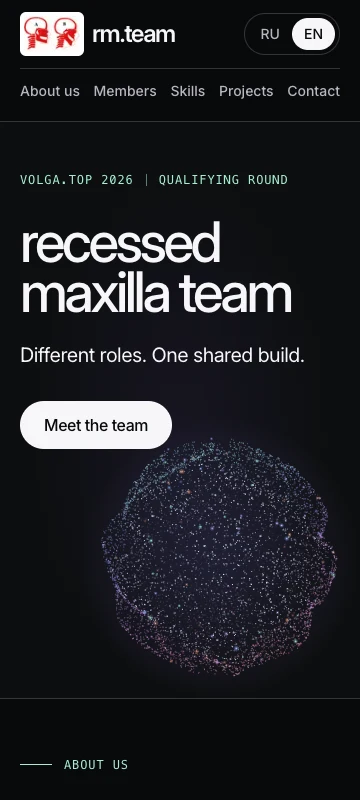
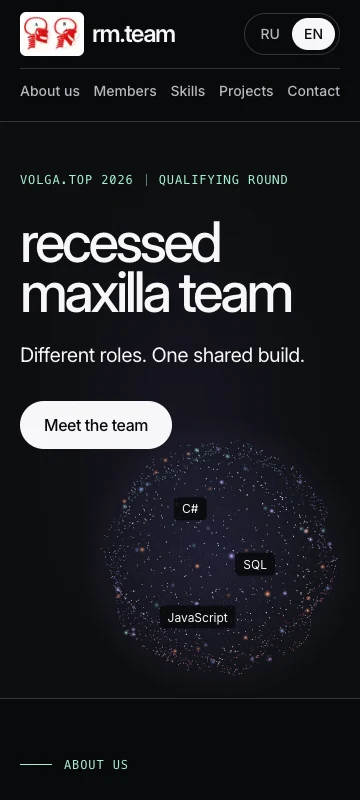
perf(frontend): batch sphere particles and cycle through team skills

Changed region(s): [[0.275, 0.5312, 0.9472, 0.8438]]

diff --git a/frontend/components/sphere-scene.ts b/frontend/components/sphere-scene.ts
@@ -18,7 +18,11 @@ function makeGlow(color: string) {
   return sprite;
 }
 
-export function createSphereScene(context: CanvasRenderingContext2D, labels: HTMLElement[]) {
+export function createSphereScene(
+  context: CanvasRenderingContext2D,
+  slots: HTMLElement[],
+  labels: readonly string[],
+) {
   // A repeatable surface keeps the opening frame stable across locale changes.
   let seed = 4627;
   function random() {
@@ -27,7 +31,14 @@ export function createSphereScene(context: CanvasRenderingContext2D, labels: HTM
   }
 
   const glows = starColors.map(makeGlow);
-  const particles = Array.from({ length: 6200 }, () => {
+  // Each path shares one paint. Depth bands retain the bright front and the coloured rim.
+  const palette = Array.from({ length: 36 }, (_, index) => {
+    const band = Math.floor(index / 12);
+    const hue = 175 + (index % 12) * 16;
+    return `hsla(${hue}, 78%, ${64 + band * 9}%, ${0.30 + band * 0.18})`;
+  });
+  palette.push("rgba(225,230,255,0.80)");
+  const particles = Array.from({ length: 4200 }, () => {
     const y = random() * 2 - 1;
     const longitude = random() * tau;
     const ring = Math.sqrt(1 - y * y);
@@ -38,18 +49,19 @@ export function createSphereScene(context: CanvasRenderingContext2D, labels: HTM
     const hue = 261 + y * 70 + 24 * x + (random() - 0.5) * 34;
     return {
       x: x * shell, y: y * shell, z: z * shell, phase,
-      color: `hsl(${hue} 78% ${65 + random() * 28}%)`,
+      color: Math.max(0, Math.min(11, Math.round((hue - 175) / 16))),
       size: 0.0022 + random() ** 2 * 0.0043,
       glow: random() < 0.022 ? glows[Math.floor(random() * glows.length)] : null,
     };
   });
 
-  const anchors = labels.map((element, index) => {
-    const y = labels.length === 1 ? 0 : 1.3 * ((index + 0.5) / labels.length - 0.5);
-    const ring = Math.sqrt(1 - y * y);
-    const angle = index * 2.4 + 0.3;
-    return { element, x: ring * Math.sin(angle), y, z: ring * Math.cos(angle) };
-  });
+  const anchors = slots.map((element, slot) => ({
+    element,
+    names: labels.filter((_, index) => index % slots.length === slot),
+    latitude: (slot - (slots.length - 1) / 2) * 0.56,
+    longitude: [-0.44, 0.42, -0.32][slot],
+    index: -1,
+  }));
 
   return function draw(size: number, time: number, pose: SpherePose) {
     const radius = size * 0.40;
@@ -66,7 +78,11 @@ export function createSphereScene(context: CanvasRenderingContext2D, labels: HTM
     const st = Math.sin(tilt);
     context.clearRect(0, 0, size, size);
 
-    for (const p of particles) {
+    const paths = palette.map(() => new Path2D());
+    // The points are uniformly distributed, so any prefix still covers the whole sphere.
+    const count = Math.min(particles.length, Math.max(2000, Math.round(size * size / 130)));
+    for (let index = 0; index < count; index++) {
+      const p = particles[index];
       const z = p.z * cos - p.x * sin;
       const depth = z * ct + p.y * st;
       const wave = 1 + 0.034 * Math.sin(time * 0.95 + p.phase)
@@ -85,25 +101,41 @@ export function createSphereScene(context: CanvasRenderingContext2D, labels: HTM
         }
       }
       const light = (depth + 1) / 2;
-      const dot = Math.max(0.55, radius * p.size * (0.68 + light));
-      context.globalAlpha = 0.29 + light * (0.58 + 0.12 * Math.sin(p.phase + time));
+      const dot = Math.max(0.85, radius * p.size * (0.76 + light));
       if (p.glow) {
+        context.globalAlpha = 0.29 + light * (0.58 + 0.12 * Math.sin(p.phase + time));
         const halo = dot * 3.4;
         context.drawImage(p.glow, x - halo, y - halo, halo * 2, halo * 2);
       } else {
-        context.fillStyle = depth > 0.54 ? "#e1e6ff" : p.color;
-        context.fillRect(x, y, dot, dot);
+        const band = depth < -0.35 ? 0 : depth < 0.1 ? 1 : 2;
+        const color = depth > 0.54 ? palette.length - 1 : p.color + band * 12;
+        paths[color].rect(x, y, dot, dot);
       }
     }
     context.globalAlpha = 1;
 
-    for (const anchor of anchors) {
-      const z = anchor.z * cos - anchor.x * sin;
-      const depth = z * ct + anchor.y * st;
-      const scale = radius * 0.78 / (1 - depth * 0.095);
-      anchor.element.style.left = `${center + (anchor.x * cos + anchor.z * sin) * scale * width}px`;
-      anchor.element.style.top = `${center + (anchor.y * ct - z * st) * scale * height}px`;
-      anchor.element.style.opacity = String(Math.min(1, Math.max(0, depth * 5)) * (1 - pose.expansion));
+    for (let index = 0; index < palette.length; index++) {
+      context.fillStyle = palette[index];
+      context.fill(paths[index]);
+    }
+
+    for (const [slot, anchor] of anchors.entries()) {
+      // Switch hemispheres at the silhouette, where the label has faded out.
+      const longitude = angle + anchor.longitude;
+      const side = Math.cos(longitude) < 0 ? -1 : 1;
+      const ring = Math.sqrt(1 - anchor.latitude ** 2);
+      const z = Math.abs(Math.cos(longitude)) * ring;
+      const x = Math.sin(longitude) * side * ring * radius * width * 0.76;
+      const y = (anchor.latitude * ct - z * st) * radius * height * 0.86;
+      const phase = time / 4.8 + slot / 3 + 0.1;
+      const index = Math.floor(phase) % anchor.names.length;
+      if (anchor.index !== index) {
+        anchor.element.textContent = anchor.names[index];
+        anchor.index = index;
+      }
+      const fade = Math.min(1, (phase % 1) * 12, (1 - phase % 1) * 12);
+      anchor.element.style.transform = `translate3d(${x.toFixed(1)}px, ${y.toFixed(1)}px, 0)`;
+      anchor.element.style.opacity = String(Math.min(1, z * 5) * fade * (1 - pose.expansion));
     }
   };
 }

diff --git a/frontend/components/particle-sphere.tsx b/frontend/components/particle-sphere.tsx
@@ -1,12 +1,10 @@
 "use client";
 
 import { useEffect, useRef } from "react";
-import type { Locale } from "../data/team";
-import { sphereLabels } from "../data/sphere-labels";
 import { createSphereScene } from "./sphere-scene";
 import { trackSphereMotion } from "./sphere-motion";
 
-export function ParticleSphere({ lang }: { lang: Locale }) {
+export function ParticleSphere({ labels }: { labels: readonly string[] }) {
   const container = useRef<HTMLDivElement>(null);
 
   useEffect(() => {
@@ -15,7 +13,7 @@ export function ParticleSphere({ lang }: { lang: Locale }) {
     const context = canvas.getContext("2d");
     if (!context) return;
 
-    const draw = createSphereScene(context, Array.from(element.querySelectorAll("li")));
+    const draw = createSphereScene(context, Array.from(element.querySelectorAll("li")), labels);
     const motion = window.matchMedia("(prefers-reduced-motion: reduce)");
     const movement = trackSphereMotion(element);
     let visible = false;
@@ -25,13 +23,11 @@ export function ParticleSphere({ lang }: { lang: Locale }) {
     let time = 0;
 
     function animate(now: number) {
-      if (now - previous >= 1000 / 30) {
-        const dt = previous ? Math.min(now - previous, 100) / 1000 : 0;
-        time += dt;
-        movement.advance(dt);
-        previous = now;
-        draw(size, time, movement.pose);
-      }
+      const dt = previous ? Math.min(now - previous, 100) / 1000 : 0;
+      previous = now;
+      time += dt;
+      movement.advance(dt);
+      draw(size, time, movement.pose);
       frame = requestAnimationFrame(animate);
     }
 
@@ -46,7 +42,7 @@ export function ParticleSphere({ lang }: { lang: Locale }) {
     const resize = new ResizeObserver(() => {
       size = canvas.clientWidth;
       if (!size) return;
-      const pixels = Math.round(size * Math.min(window.devicePixelRatio, 2));
+      const pixels = Math.round(size * Math.min(window.devicePixelRatio, 1.5));
       canvas.width = canvas.height = pixels;
       context.setTransform(pixels / size, 0, 0, pixels / size, 0, 0);
       draw(size, time, movement.pose);
@@ -69,16 +65,16 @@ export function ParticleSphere({ lang }: { lang: Locale }) {
       motion.removeEventListener("change", sync);
       document.removeEventListener("visibilitychange", sync);
     };
-  }, []);
+  }, [labels]);
 
   return (
-    <div ref={container} className="particle-sphere group">
+    <div ref={container} className="particle-sphere">
       <canvas aria-hidden="true" className="block size-full" />
-      {sphereLabels.length > 0 && (
-        <ul className="absolute inset-0 flex flex-col items-center justify-center gap-1">
-          {sphereLabels.map((label) => (
-            <li key={label.ru} className="max-w-[45%] group-data-ready:absolute group-data-ready:-translate-1/2 rounded-sm bg-ink/85 px-2 py-1 text-center text-xs text-paper">
-              {label[lang]}
+      {labels.length > 0 && (
+        <ul aria-hidden="true" className="sphere-labels pointer-events-none absolute inset-0">
+          {labels.slice(0, 3).map((label, slot) => (
+            <li key={slot} className="absolute max-w-[44%] rounded-sm bg-ink/85 px-2 py-1 text-center text-xs leading-tight text-paper">
+              {label}
             </li>
           ))}
         </ul>

diff --git a/frontend/app/[lang]/page.tsx b/frontend/app/[lang]/page.tsx
@@ -1,3 +1,4 @@
+import { getSphereLabels } from "../../data/sphere-labels";
 import { ParticleSphere } from "../../components/particle-sphere";
 import Image from "next/image";
 import { MemberCard } from "../../components/member-card";
@@ -109,7 +110,7 @@ export default async function Home({ params }: PageProps<"/[lang]">) {
           aria-labelledby="hero-title"
           className="hero relative isolate overflow-hidden border-b border-line"
         >
-          <ParticleSphere lang={lang} />
+          <ParticleSphere labels={getSphereLabels(lang)} />
           <div className="shell pointer-events-none relative flex min-h-[36rem] flex-col items-start pt-12 pb-44 sm:min-h-[40rem] md:justify-center md:py-24 [&>*]:pointer-events-auto lg:min-h-[clamp(38rem,74svh,54rem)]">
             <p className="meta mb-7 flex flex-wrap items-center gap-3 text-mint">
               <span>

diff --git a/frontend/app/globals.css b/frontend/app/globals.css
@@ -79,6 +79,23 @@
   .particle-sphere:not([data-ready]) canvas {
     background: url("./assets/particle-sphere.webp") center / contain no-repeat;
   }
+  .sphere-labels li {
+    @apply top-1/2 left-1/2 -translate-1/2;
+  }
+  .sphere-labels li:first-child {
+    top: 29%;
+    left: 41%;
+  }
+  .sphere-labels li:nth-child(2) {
+    left: 62%;
+  }
+  .sphere-labels li:nth-child(3) {
+    top: 71%;
+    left: 43%;
+  }
+  .particle-sphere[data-ready] .sphere-labels li {
+    @apply top-1/2 left-1/2;
+  }
   .hero-title {
     @apply max-w-[6em] text-[clamp(3.5rem,8.6vw,8.5rem)] leading-[0.89] font-medium tracking-[-0.062em];
   }

diff --git a/frontend/data/sphere-labels.ts b/frontend/data/sphere-labels.ts
@@ -1,3 +1,8 @@
-import type { Translation } from "./team";
+import { team, type Locale } from "./team";
 
-export const sphereLabels: readonly Translation[] = [];
+export function getSphereLabels(lang: Locale): string[] {
+  const names = team.skills.flatMap(({ items }) =>
+    items.map((item) => typeof item === "string" ? item : item[lang]),
+  );
+  return [...new Set(names)];
+}

diff --git a/docs/components.md b/docs/components.md
@@ -3,7 +3,7 @@
 | Компонент | Содержимое и состояния |
 | --- | --- |
 | Шапка | Эмблема со ссылкой на текущую языковую версию, меню, RU и EN. Активная ссылка имеет доступное состояние и контрастную заливку. |
-| Первый экран | Событие, название команды, девиз, ссылка к участникам. Справа вращается сфера. Перетаскивание поворачивает её, движение указателя раздвигает частицы, а прокрутка расширяет оболочку. Локализованные подписи на её поверхности задаёт [список в TypeScript](../frontend/data/sphere-labels.ts). |
+| Первый экран | Событие, название команды, девиз, ссылка к участникам. Справа вращается сфера. Перетаскивание поворачивает её, движение указателя раздвигает частицы, а прокрутка расширяет оболочку. На её поверхности по очереди появляются до трёх подписей из [навыков команды](../frontend/data/team.ts). |
 | Карточка участника | Локализованные имя, роль, вклад и навыки, учебная группа, фото или инициалы. При заполненном личном контакте показывает личную ссылку, иначе ведёт в общий канал с подписью «Через команду / Via the team». |
 | Строка навыков | Название категории и список элементов, допускающий перенос. |
 | Карточка проекта | Локализованное изображение с альтернативным текстом, тип «Проект / Project» или «Идея / Idea», название, описание и необязательная ссылка-кнопка. Для Dobropay обложка дополнена фирменным знаком и написанием `dobropay`. |

diff --git a/README.md b/README.md
@@ -19,7 +19,7 @@
 
 Состав команды, тексты, навыки, портфолио и адреса для связи редактируются в [frontend/data/team.ts](frontend/data/team.ts). Для переводимых полей заполните `ru` и `en`. Чтобы опубликовать работу, добавьте в `team.projects` название, описание и тип `project` или `idea`; ссылку можно указать при наличии. Раздел портфолио и его пункт меню появляются с первой работой. Первая работа — сама визитка. Поле `team.contact` задаёт общий адрес связи для подвала и карточек без личного контакта. Сейчас оно ведёт в GitHub Issues проекта.
 
-Подписи на вращающейся сфере задаёт массив `sphereLabels` в [sphere-labels.ts](frontend/data/sphere-labels.ts). Добавляйте по одному объекту с полями `ru` и `en` на подпись. Сейчас массив пуст.
+Сфера на первом экране по очереди показывает названия из `team.skills`. Добавьте технологию в раздел навыков один раз, и она появится также на сфере. Для переводимых названий заполните поля `ru` и `en`.
 
 ## 3. Технологический стек
 

diff --git a/docs/decisions/0014-sphere-rendering-and-skills.md b/docs/decisions/0014-sphere-rendering-and-skills.md
@@ -1,0 +1,9 @@
+# 0014. Отрисовка сферы и подписи из навыков команды
+
+Дата принятия — 2026-11-26.
+
+Первый вариант обрабатывал 6 200 частиц независимо от ширины экрана и ограничивал частоту отрисовки проверкой интервала внутри кадрового цикла. На телефоне эти затраты были особенно заметны.
+
+Количество частиц теперь зависит от видимого размера сферы. Обычные точки одного цвета и глубины объединяются в контур Canvas 2D, а светящиеся частицы используют готовые спрайты. Браузер задаёт ритм кадров через `requestAnimationFrame`. Масштаб буфера ограничен 1,5 физическими пикселями на CSS-пиксель.
+
+Названия берутся из [данных команды](../../frontend/data/team.ts) в языке страницы. Три подписи по очереди показывают весь список. При уменьшенном движении остаются начальные подписи, а полный перечень всегда доступен в разделе навыков.

diff --git a/docs/decisions/README.md b/docs/decisions/README.md
@@ -17,5 +17,6 @@
 | [0011. Визуальные обложки проектов и фирменный знак Dobropay](0011-project-previews.md) | 2026-11-26 |
 | [0012. Технологические навыки команды](0012-team-technology-skills.md) | 2026-11-26 |
 | [0013. Исходная компоновка первого экрана и движение сферы](0013-hero-layout-and-motion.md) | 2026-11-26 |
+| [0014. Отрисовка сферы и подписи из навыков команды](0014-sphere-rendering-and-skills.md) | 2026-11-26 |
 
 Скопируй [шаблон записи](template.md) в файл `NNNN-краткое-название.md` и добавь его в таблицу.
